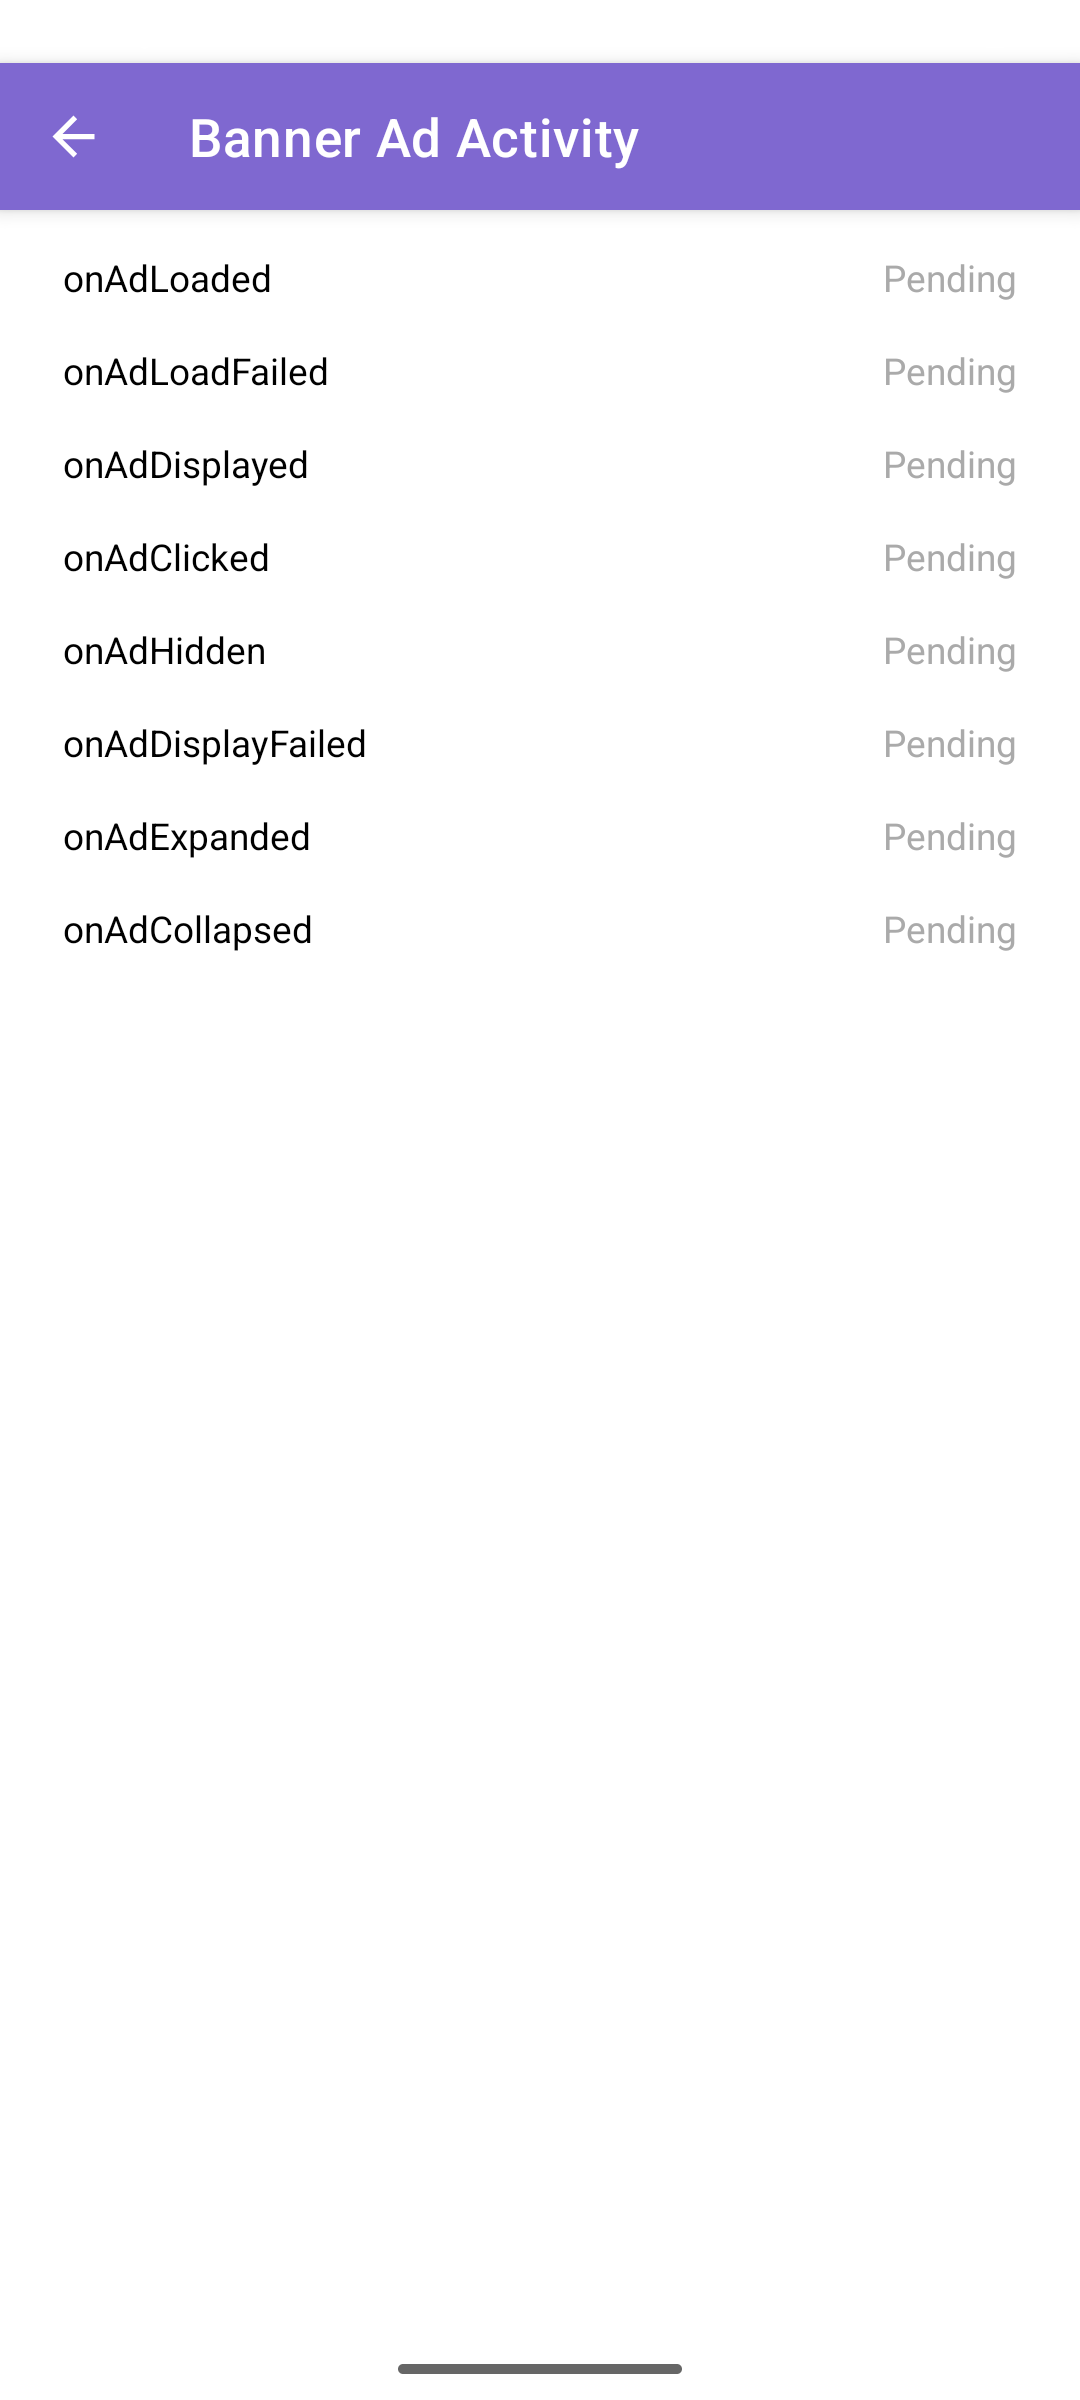
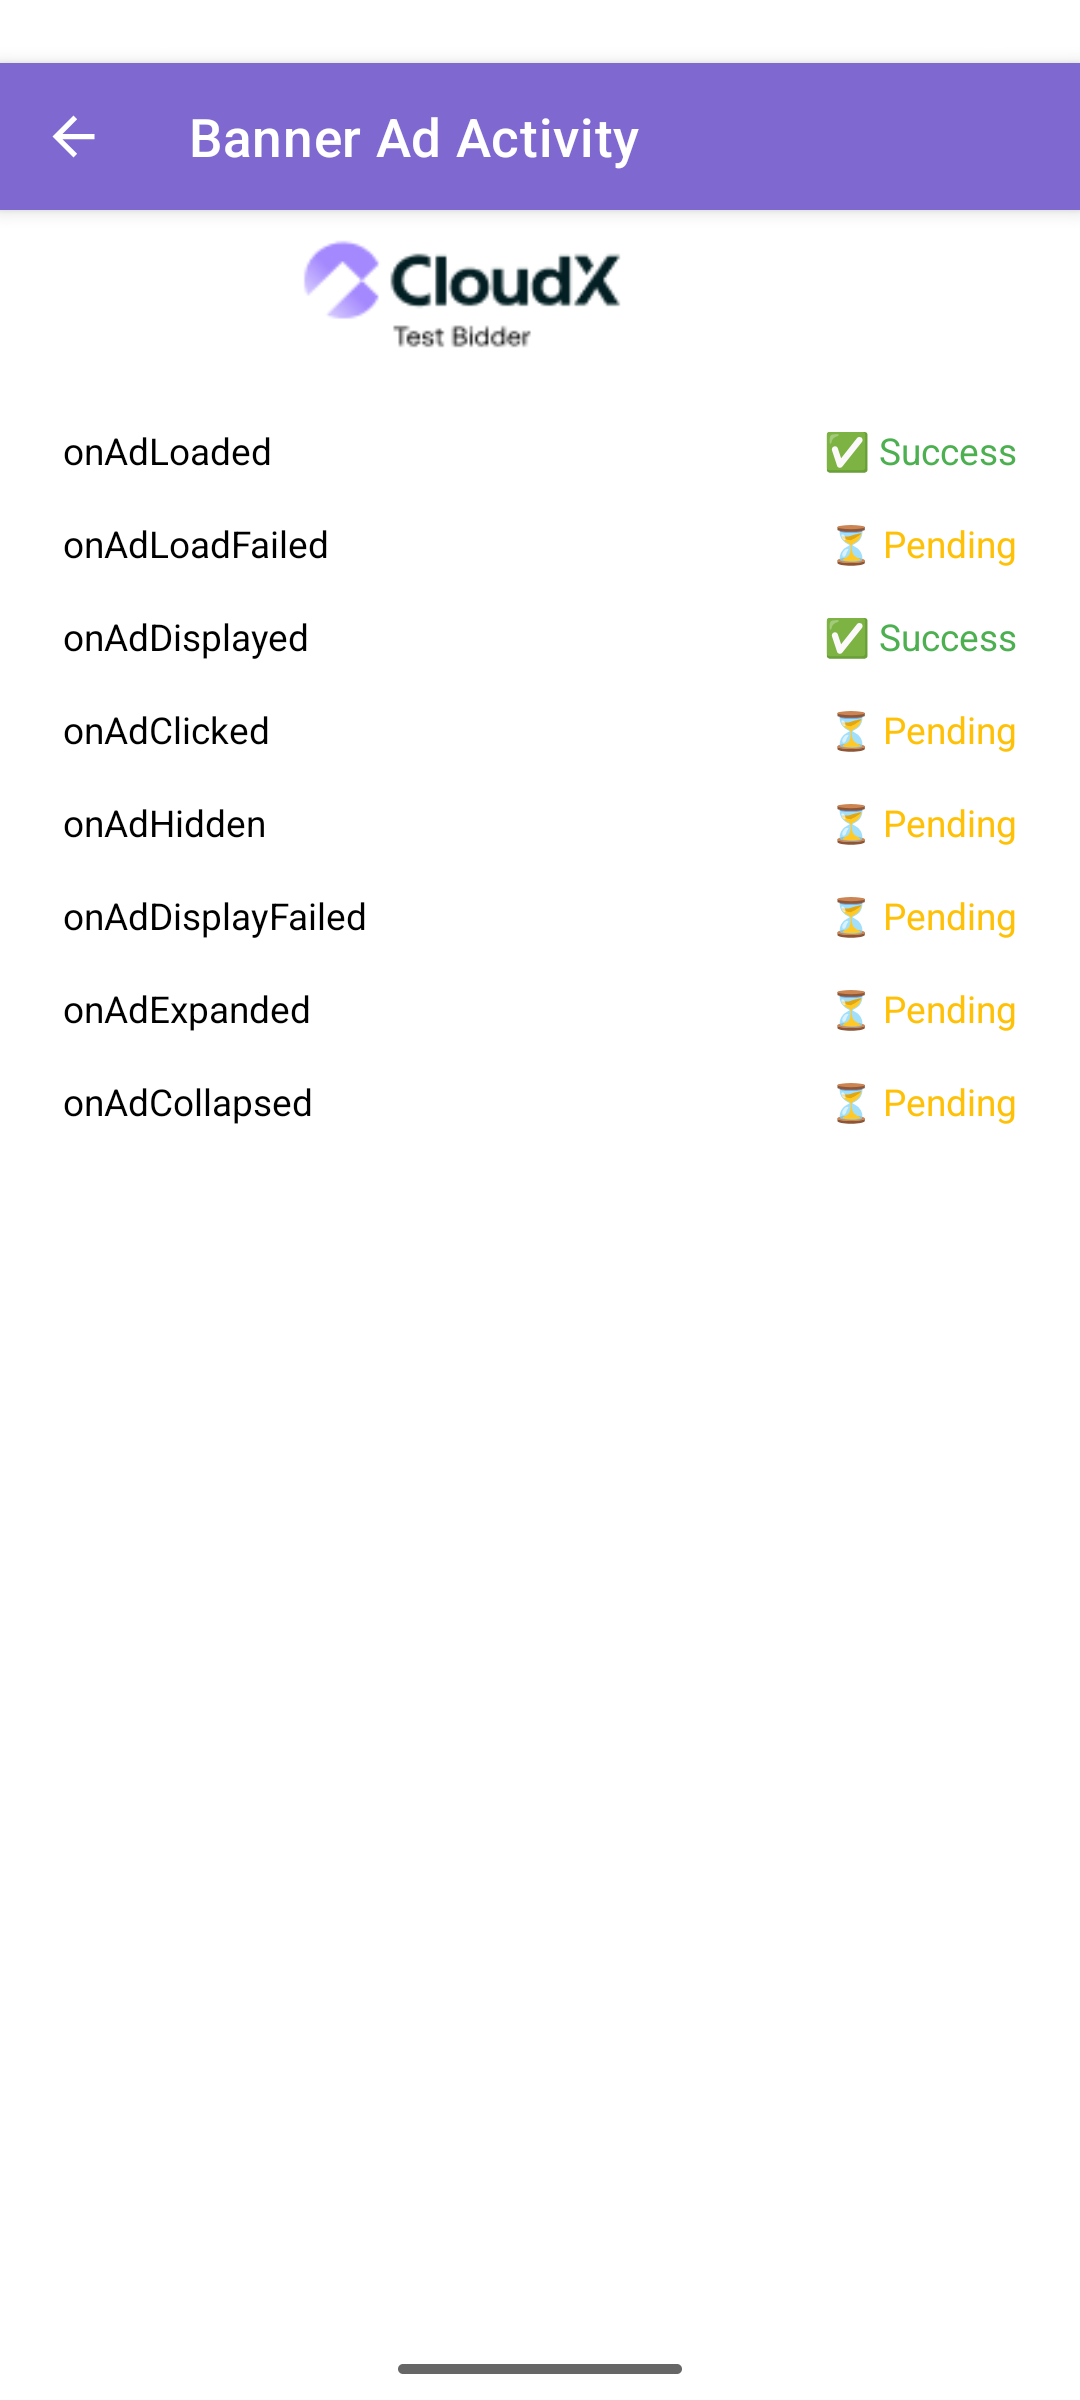
feat: Improve ad examples and UI
This commit enhances the sample app's user interface and ad implementation examples.

Key changes include:

-   **Event Status UI**: Improved the display of event statuses in the list. Each status ("Pending", "Success", "Failure") now has a unique color and a corresponding emoji for better visual feedback.
-   **UI Polish**:
    -   Added padding to main layouts.
    -   Externalized UI text into `strings.xml`.
    -   Updated placement names to "banner" and "interstitial".
    -   Refreshed screenshot images for banner and interstitial ads.

diff --git a/app/src/main/java/com/example/cloudxsampleapp/EventViewHolder.kt b/app/src/main/java/com/example/cloudxsampleapp/EventViewHolder.kt
@@ -2,6 +2,7 @@ package com.example.cloudxsampleapp
 
 import android.view.View
 import android.widget.TextView
+import androidx.core.content.ContextCompat
 import androidx.recyclerview.widget.RecyclerView
 
 class EventViewHolder(itemView: View) : RecyclerView.ViewHolder(itemView) {
@@ -10,6 +11,24 @@ class EventViewHolder(itemView: View) : RecyclerView.ViewHolder(itemView) {
 
     fun bind(event: Event) {
         eventName.text = event.name
-        eventStatus.text = event.status
+        val context = itemView.context
+        when (event.status) {
+            "Pending" -> {
+                eventStatus.text = context.getString(R.string.status_pending)
+                eventStatus.setTextColor(ContextCompat.getColor(context, R.color.status_pending))
+            }
+            "Success" -> {
+                eventStatus.text = context.getString(R.string.status_success)
+                eventStatus.setTextColor(ContextCompat.getColor(context, R.color.status_success))
+            }
+            "Failure" -> {
+                eventStatus.text = context.getString(R.string.status_failure)
+                eventStatus.setTextColor(ContextCompat.getColor(context, R.color.status_failure))
+            }
+            else -> {
+                eventStatus.text = event.status
+                eventStatus.setTextColor(ContextCompat.getColor(context, R.color.black))
+            }
+        }
     }
 }

diff --git a/app/src/main/java/com/example/cloudxsampleapp/InterstitialAdActivity.kt b/app/src/main/java/com/example/cloudxsampleapp/InterstitialAdActivity.kt
@@ -28,6 +28,10 @@ class InterstitialAdActivity : AppCompatActivity(), CloudXInterstitialListener {
         setupRecyclerView()
         createInterstitialAd()
 
+        binding.loadAdButton.setOnClickListener {
+            loadInterstitialAd()
+        }
+
         binding.showAdButton.setOnClickListener {
             showInterstitialAd()
         }
@@ -61,12 +65,13 @@ class InterstitialAdActivity : AppCompatActivity(), CloudXInterstitialListener {
 
     private fun createInterstitialAd() {
         // Create interstitial ad
-        interstitialAd = CloudX.createInterstitial("your-interstitial-placement-name")
+        interstitialAd = CloudX.createInterstitial("interstitial")
 
         // Set listener
         interstitialAd.listener = this
+    }
 
-        // Load the ad
+    private fun loadInterstitialAd() {
         interstitialAd.load()
     }
 

diff --git a/app/src/main/java/com/example/cloudxsampleapp/BannerAdActivity.kt b/app/src/main/java/com/example/cloudxsampleapp/BannerAdActivity.kt
@@ -61,7 +61,7 @@ class BannerAdActivity : AppCompatActivity(), CloudXAdViewListener {
 
     private fun createBannerAd() {
         // Create banner ad
-        bannerAd = CloudX.createBanner("testbanner")
+        bannerAd = CloudX.createBanner("banner")
 
         // Set listener
         bannerAd.listener = this
